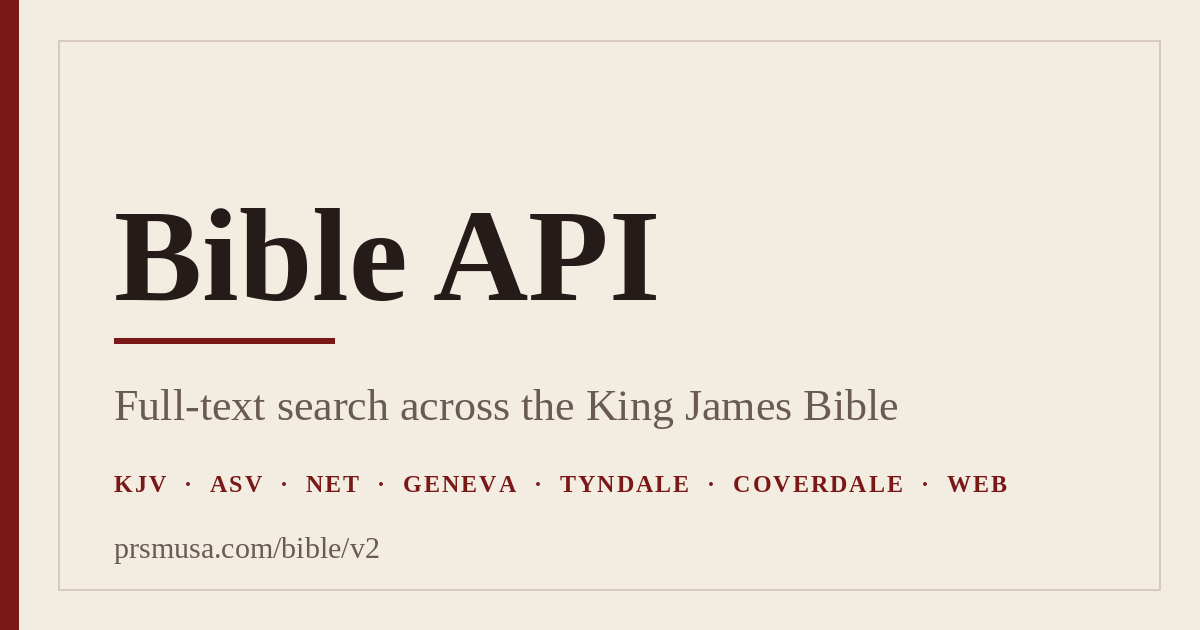
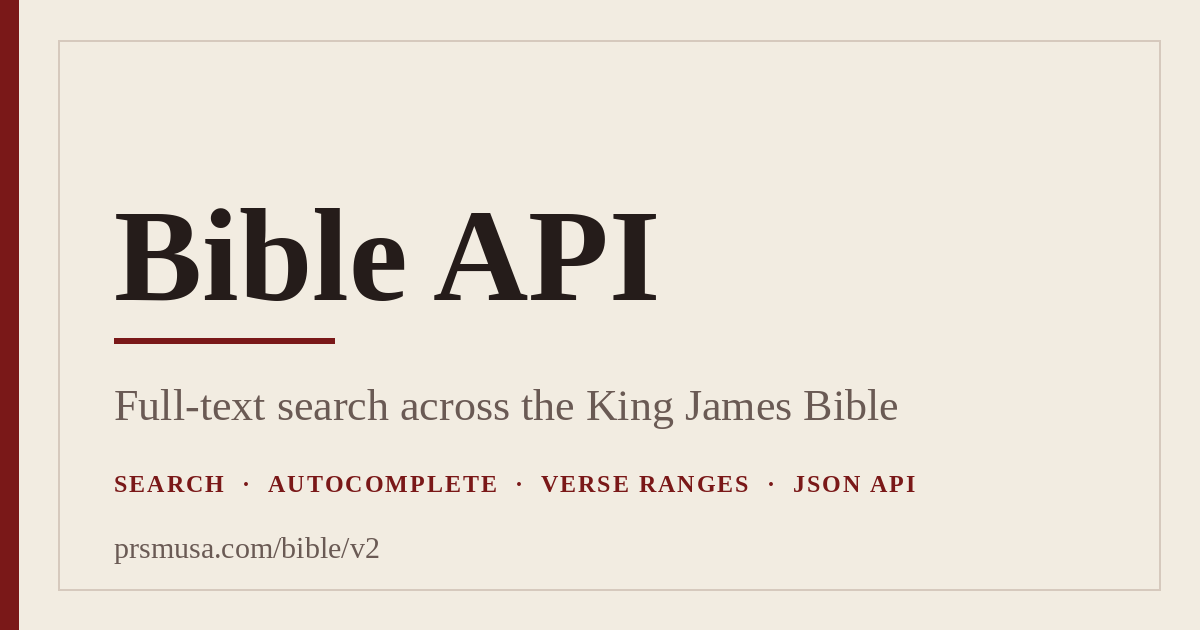
Correct link-preview copy to KJV only.
The card and meta tags advertised ASV, NET, Geneva, Tyndale, Coverdale, and
WEB. Only kjv_v2 is indexed and no code path reads the other texts, so the
claim was false. Describe verified features instead.

Changed region(s): [[0.0925, 0.754, 0.8633, 0.7841]]

diff --git a/web/index.html b/web/index.html
@@ -4,7 +4,7 @@
     <meta charset="UTF-8" />
     <meta name="viewport" content="width=device-width, initial-scale=1.0" />
     <title>Bible API</title>
-    <meta name="description" content="Full-text search across the King James Bible, with verse lookup, predictive suggestions, and nine English translations." />
+    <meta name="description" content="Full-text search across the complete King James Bible — verse lookup, verse ranges, predictive autocomplete, and a JSON API." />
     <link rel="canonical" href="https://prsmusa.com/bible/v2" />
 
     <!-- Link-preview scrapers do not run JavaScript and do not resolve relative
@@ -14,7 +14,7 @@
     <meta property="og:site_name" content="Bible API" />
     <meta property="og:url" content="https://prsmusa.com/bible/v2" />
     <meta property="og:title" content="Bible API — search the King James Bible" />
-    <meta property="og:description" content="Full-text search across the King James Bible, with verse lookup, predictive suggestions, and nine English translations." />
+    <meta property="og:description" content="Full-text search across the complete King James Bible — verse lookup, verse ranges, predictive autocomplete, and a JSON API." />
     <meta property="og:image" content="https://prsmusa.com/bible/v2/og-image.png" />
     <meta property="og:image:type" content="image/png" />
     <meta property="og:image:width" content="1200" />
@@ -23,7 +23,7 @@
 
     <meta name="twitter:card" content="summary_large_image" />
     <meta name="twitter:title" content="Bible API — search the King James Bible" />
-    <meta name="twitter:description" content="Full-text search across the King James Bible, with verse lookup, predictive suggestions, and nine English translations." />
+    <meta name="twitter:description" content="Full-text search across the complete King James Bible — verse lookup, verse ranges, predictive autocomplete, and a JSON API." />
     <meta name="twitter:image" content="https://prsmusa.com/bible/v2/og-image.png" />
     <meta name="twitter:image:alt" content="Bible API — full-text search across the King James Bible" />
 

diff --git a/scripts/make_og_image.py b/scripts/make_og_image.py
@@ -27,9 +27,11 @@ RULE = (214, 201, 189)
 SERIF_BOLD = "/usr/share/fonts/truetype/liberation/LiberationSerif-Bold.ttf"
 SERIF_REGULAR = "/usr/share/fonts/truetype/liberation/LiberationSerif-Regular.ttf"
 
+# Only the KJV is indexed and served. Other texts in assets/texts are raw
+# files with standalone import scripts; do not advertise them here.
 TITLE = "Bible API"
 SUBTITLE = "Full-text search across the King James Bible"
-TRANSLATIONS = "KJV  ·  ASV  ·  NET  ·  GENEVA  ·  TYNDALE  ·  COVERDALE  ·  WEB"
+FEATURES = "SEARCH  ·  AUTOCOMPLETE  ·  VERSE RANGES  ·  JSON API"
 FOOTER = "prsmusa.com/bible/v2"
 
 ACCENT_BAR_W = 18
@@ -59,7 +61,7 @@ def main() -> None:
 
     title_font = font(SERIF_BOLD, 132)
     subtitle_font = font(SERIF_REGULAR, 44)
-    translations_font = font(SERIF_BOLD, 24)
+    features_font = font(SERIF_BOLD, 24)
     footer_font = font(SERIF_REGULAR, 30)
 
     x = ACCENT_BAR_W + MARGIN_X
@@ -69,7 +71,7 @@ def main() -> None:
     draw.text((x, 300), TITLE, font=title_font, fill=INK, anchor="ls")
     draw.line([x, 340, x + 220, 340], fill=DEEP_RED, width=6)
     draw.text((x, 420), SUBTITLE, font=subtitle_font, fill=MUTED, anchor="ls")
-    draw_tracked(draw, (x, 470), TRANSLATIONS, translations_font, DEEP_RED, 2)
+    draw_tracked(draw, (x, 470), FEATURES, features_font, DEEP_RED, 2)
     draw.text((x, HEIGHT - 72), FOOTER, font=footer_font, fill=MUTED, anchor="ls")
 
     out = Path(__file__).resolve().parent.parent / "web" / "public" / "og-image.png"
